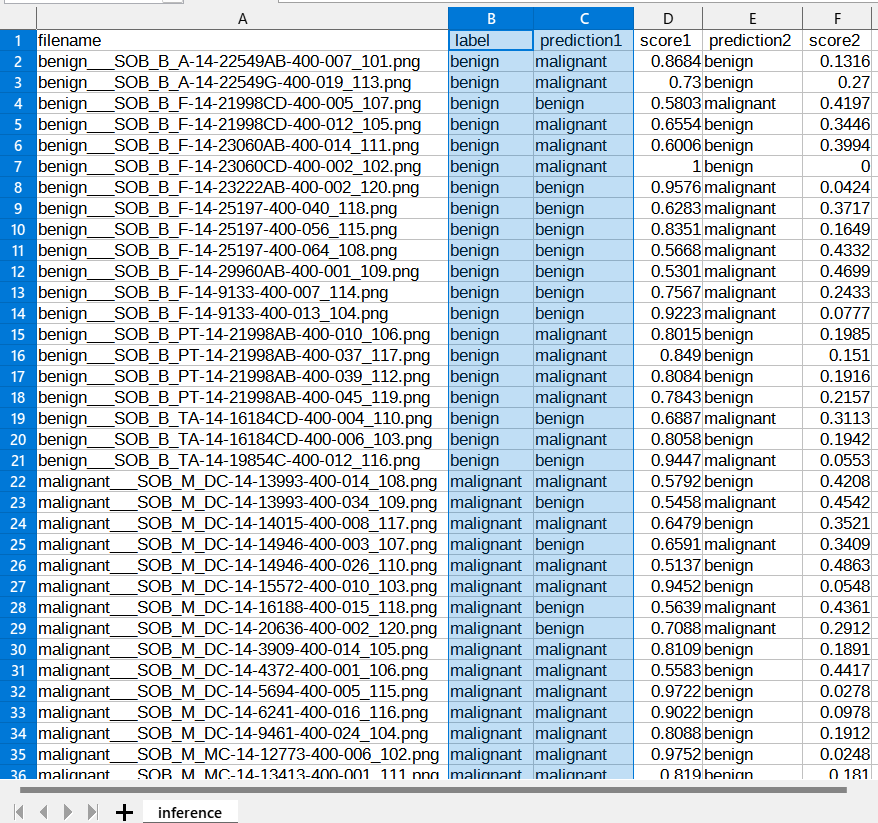
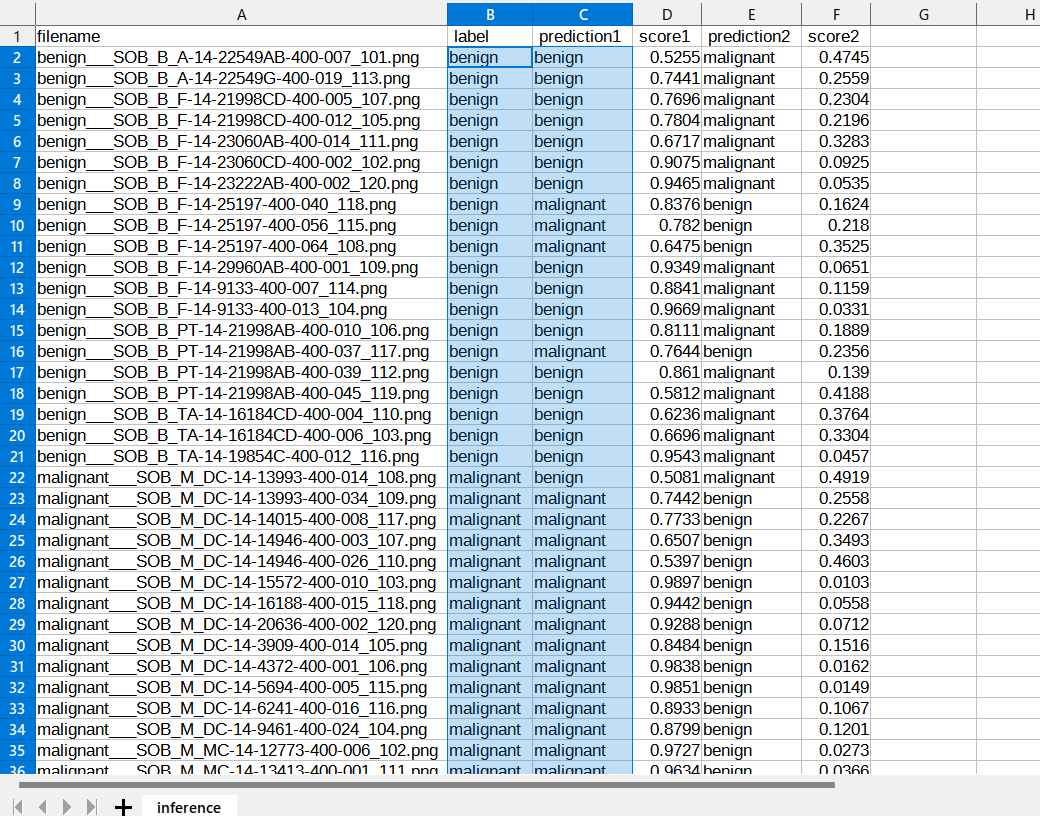
Updated EfficientNetV2Inferencer.py.

diff --git a/projects/Breast-Cancer/DatasetStatistics.py b/projects/Breast-Cancer/DatasetStatistics.py
@@ -1,13 +1,14 @@
 import os
 import sys
 import glob
+from tkinter.tix import MAX
 import traceback
 from matplotlib import pyplot as plt
 
 class DatasetStatistics:
 
-  def __init__(self, title_fontsize=14, label_fontsize=12):
-    pass
+  def __init__(self, fig_tilte_font_size=18, title_fontsize=14, label_fontsize=12):
+    self.fig_title_fontsize = fig_tilte_font_size
     self.title_fontsize = title_fontsize
     self.label_fontsize = label_fontsize
 
@@ -21,37 +22,65 @@ class DatasetStatistics:
             textcoords="offset points",
             ha='center', va='bottom')
 
-  
-  def plot(self, dataset_dir, ymax=1000):
+  def getCountMax(self, subdirs):
+    MAX = 0
+    for dir in subdirs:
+       # ./dataset_dir/*.test , 
+       dir = os.path.join(dataset_dir, dir) 
+       labels = os.listdir(dir)
+       for label in labels:
+         label_dir = os.path.join(dir, label)
+         files = glob.glob(label_dir + "/*.png")
+         count = len(files)
+         if count>=MAX:
+          MAX = count
+    return MAX
+
+  def getCount(self, dir, labels):
+    counts = []
+    for label in labels:
+      label_dir = os.path.join(dir, label)
+      files = glob.glob(label_dir + "/*.png")
+      count = len(files)
+      counts.append(count)
+    print("--- labels {} couns {}".format(labels, counts))
+    return counts
+
+  def plot(self, dataset_dir):
     title   = os.path.basename(dataset_dir)
     subdirs = os.listdir(dataset_dir)
-    subdirs = sorted(subdirs)
-    counts  = []
-    YMAX = 0
-    for dir in subdirs:
-       dir = os.path.join(dataset_dir, dir)      
-       #print(" {} ".format(dir))
-       files = glob.glob(dir + "/*.png")
-       count = len(files)
-       if count >YMAX:
-        YMAX = count
-       counts.append(count)
-       dir = os.path.basename(dir)
-       print("dir {}  count {}".format(dir, count))
-    # Creating a simple bar chart
-    ymax = YMAX + 100
-    fig = plt.figure()
-    ax = fig.add_subplot(111)
-    ax.set_ylim(0, ymax)
-    #fig.tight_layout()
+    # sub_dirs = test, train 
+    #plt.title(dataset_dir)
 
-    graph = plt.bar(subdirs, counts)
-    self.setvalue(graph, counts)
-    plt.title(title)
-    #plt.xlabel("Labels", fontsize=self.label_fontsize)
-    ax.set_xlabel("Labels", fontsize = self.label_fontsize, weight = 'bold')
-    ax.set_ylabel("Count", fontsize = self.label_fontsize, weight = 'bold')
-    ax.set_title(title, fontsize = self.title_fontsize, weight = 'bold', pad = 20)
+    fig = plt.figure(figsize=(12,6))
+    fig.suptitle(dataset_dir, fontsize=self.fig_title_fontsize, weight='bold')
+    plt.subplots_adjust(wspace=0.5,)
+    subdirs = sorted(subdirs)
+    subdirs.reverse()
+    i = 0
+    YMAX = self.getCountMax(subdirs)
+    YMAX = YMAX + int(YMAX/10)
+
+    for dir in subdirs:
+       # ./dataset_dir/*.test , 
+       dir = os.path.join(dataset_dir, dir) 
+       labels = os.listdir(dir)
+       print("--- labels {}".format(labels))
+       #[label1, label2]
+       counts = self.getCount(dir, labels)
+
+       ax = fig.add_subplot(1, 2, 1+i)
+       ax.set_ylim(0, YMAX)
+
+       i += 1
+       graph = plt.bar(labels, counts)
+       self.setvalue(graph, counts)
+       #plt.xlabel("Labels", fontsize=self.label_fontsize)
+       ax.set_xlabel("Labels", fontsize = self.label_fontsize, weight = 'bold')
+       ax.set_ylabel("Count", fontsize = self.label_fontsize, weight = 'bold')
+       title = os.path.basename(dir)
+       ax.set_title(title, fontsize = self.title_fontsize, weight = 'bold')
+
 
     #plt.show()
     filename = os.path.basename(dataset_dir)
@@ -62,14 +91,13 @@ class DatasetStatistics:
     fig.savefig(figfilename)
 
 
-# python DatasetStatistics.py ./BreaKHis_V1_400X/train
+# python DatasetStatistics.py ./BreaKHis_V1_400X/
 if __name__ == "__main__":
+  dataset_dir = "./BreaKHis_V1_400X/"
   try:
-    dataset_dir = ""
+    #dataset_dir = ""
     if len(sys.argv) == 2:
       dataset_dir = sys.argv[1]
-    else:
-      raise Exception("Invalid argment")
 
     stat = DatasetStatistics()
     stat.plot(dataset_dir)

diff --git a/EfficientNetV2Inferencer.py b/EfficientNetV2Inferencer.py
@@ -144,13 +144,16 @@ class EfficientNetV2Inferencer:
       #print(" {}".format(image_files))
       print("--- eval_image_size {}".format(FLAGS.eval_image_size))
       print("\n--- image_path {}".format(FLAGS.image_path))
-      for image_file in image_files:
+      image_size  = FLAGS.eval_image_size
 
-        image = tf.io.read_file(image_file)
-        image = preprocessing.preprocess_image(
-          image, 
-          image_size  = FLAGS.eval_image_size, 
-          is_training = False)
+      for image_file in image_files:
+        image = tf.keras.preprocessing.image.load_img(image_file, target_size=(image_size, image_size),
+            color_mode = 'rgb',
+            interpolation='nearest')
+
+        image = tf.keras.preprocessing.image.img_to_array(image)
+        image = (image)* 1.0/255.0
+
         # A tensor with a length 1 axis inserted at index axis.
         image  = tf.expand_dims(image, 0)
         logits = self.model(image, training=False)

diff --git a/EpochChangeCallback.py b/EpochChangeCallback.py
@@ -28,6 +28,7 @@ import tensorflow as tf
 #from tf.keras.callbacks import Callback
 
 sys.path.append('../../')
+from LineGraph import LineGraph
 
 
 # This class will send a text messge to notify a progress status of traing proccess
@@ -100,3 +101,9 @@ class EpochChangeCallback(tf.keras.callbacks.Callback):
  
     except Exception as ex:
         traceback.print_exc()
+
+  def save_eval_graphs(self):
+    lineGraph = LineGraph()
+    lineGraph.plot(self.train_losses_file)
+    lineGraph.plot(self.train_accuracies_file)
+

diff --git a/EfficientNetV2ModelTrainer.py b/EfficientNetV2ModelTrainer.py
@@ -238,6 +238,10 @@ class EfficientNetV2ModelTrainer:
       verbose=1
       )
 
+    #2022/08/26
+    epch_callback.save_eval_graphs()
+
+    
 def main(_) -> None:
 
   trainer = EfficientNetV2ModelTrainer()

diff --git a/README.md b/README.md
@@ -1,4 +1,4 @@
-<h2>EfficientNet-Breast-Cancer (Updated: 2022/08/24)</h2>
+<h2>EfficientNet-Breast-Cancer (Updated: 2022/09/01)</h2>
 <a href="#1">1 EfficientNetV2 Breast Cancer BreaKHis Classification </a><br>
 <a href="#1.1">1.1 Clone repository</a><br>
 <a href="#1.2">1.2 Prepare Breast Cancer dataset</a><br>
@@ -30,6 +30,11 @@ Breast Cancer Histopathological Database (BreakHis)
 </a>
 <br>
 <br>We use python 3.8 and tensorflow 2.8.0 environment on Windows 11.<br>
+<br>
+<li>
+2022/09/01: Updated EfficientNetV2Inferencer.py.
+</li>
+
 <h3>
 <a id="1.1">1.1 Clone repository</a>
 </h3>
@@ -103,12 +108,9 @@ Sample images of BreaKHis_V1_400X/benign:<br>
 <br> 
 <br>
 
-The number of images in train dataset:<br>
-<img src="./asset/BreaKHis_V1_400X_train.png" width="540" height="auto">
-<br>
-<br>
-The number of images in test dataset:<br>
-<img src="./asset/BreaKHis_V1_400X_test.png" width="540" height="auto">
+The number of images in train and test dataset:<br>
+<img src="./projects/Breast-Cancer/_BreaKHis_V1_400X_.png" width="640" height="auto">
+
 <br>
 <br>
 
